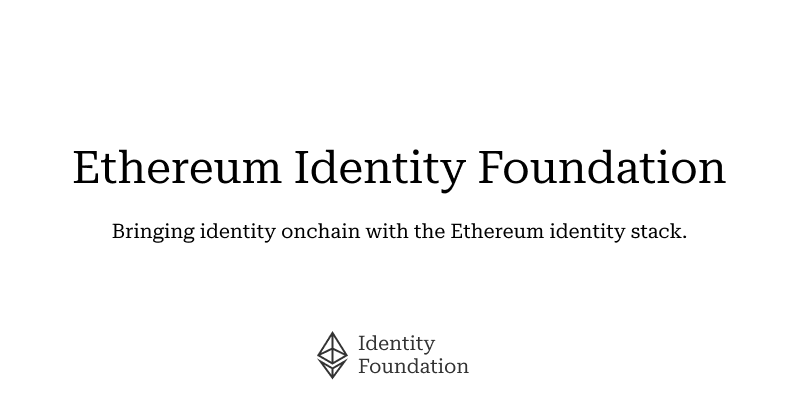
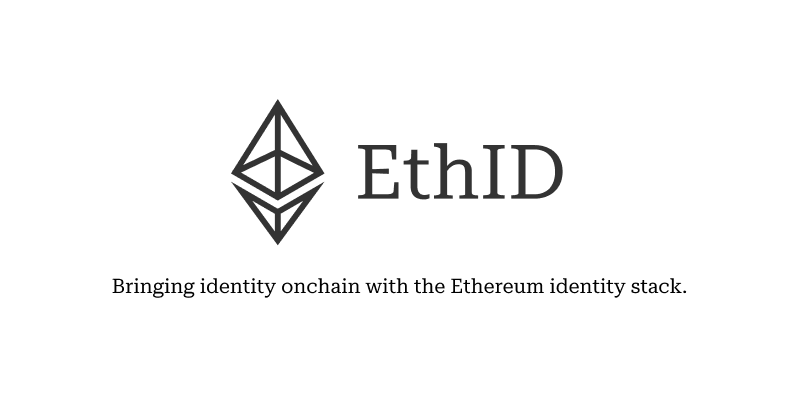
update OG image and metadata

Changed region(s): [[0.0938, 0.2336, 0.9062, 0.5839], [0.125, 0.6715, 0.8438, 0.7299], [0.375, 0.8175, 0.5938, 0.9343]]

diff --git a/src/app/page.tsx b/src/app/page.tsx
@@ -9,12 +9,12 @@ import FooterLinks from '#/components/footer-links'
 import { FOUNDATION_ADDRESSES, FOUNDATION_ROLES, TEAM_ADDRESSES, TEAM_ROLES } from '#/lib/constants/team'
 
 export const metadata: Metadata = {
-  title: 'Ethereum Identity Foundation',
+  title: 'EthID',
   openGraph: {
-    title: 'Ethereum Identity Foundation',
-    siteName: 'Ethereum Identity Foundation',
+    title: 'EthID',
+    siteName: 'EthID',
     description: 'Bringing identity onchain with the Ethereum identity stack.',
-    url: 'https://efp.app',
+    url: 'https://ethid.org',
     images: [
       {
         url: 'https://ethid.org/assets/og.png',
